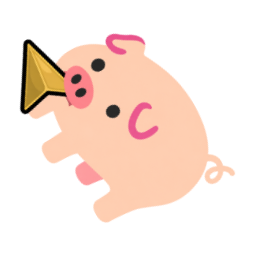
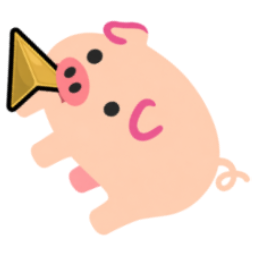
feat: 将恶意词条「反射」替换为「抗性」，每回合可免疫1次负面效果

Changed region(s): [[0.0, 0.0625, 1.0, 0.9375], [0.5, 0.375, 0.6562, 0.5625], [0.4062, 0.375, 0.4688, 0.4688]]

diff --git a/YuWanCardCode/Powers/MaliceTraits/ResistTrait.cs b/YuWanCardCode/Powers/MaliceTraits/ResistTrait.cs
@@ -1,0 +1,55 @@
+using MegaCrit.Sts2.Core.Combat;
+using MegaCrit.Sts2.Core.Entities.Creatures;
+using MegaCrit.Sts2.Core.Entities.Powers;
+using MegaCrit.Sts2.Core.Models;
+
+namespace YuWanCard.Powers.MaliceTraits;
+
+public sealed class ResistTrait : MaliceTraitPowerBase
+{
+    private bool _usedThisTurn;
+
+    private bool UsedThisTurn
+    {
+        get => _usedThisTurn;
+        set
+        {
+            AssertMutable();
+            _usedThisTurn = value;
+        }
+    }
+
+    public override Task AfterSideTurnStart(CombatSide side, IReadOnlyList<Creature> participants, ICombatState combatState)
+    {
+        if (side == Owner.Side)
+        {
+            UsedThisTurn = false;
+        }
+
+        return Task.CompletedTask;
+    }
+
+    public override bool TryModifyPowerAmountReceived(PowerModel canonicalPower, Creature target, decimal amount, Creature? applier, out decimal modifiedAmount)
+    {
+        modifiedAmount = amount;
+        if (target != Owner || UsedThisTurn)
+        {
+            return false;
+        }
+
+        if (!canonicalPower.IsVisible || canonicalPower.GetTypeForAmount(amount) != PowerType.Debuff)
+        {
+            return false;
+        }
+
+        modifiedAmount = 0m;
+        return true;
+    }
+
+    public override Task AfterModifyingPowerAmountReceived(PowerModel power)
+    {
+        Flash();
+        UsedThisTurn = true;
+        return Task.CompletedTask;
+    }
+}

diff --git a/YuWanCardCode/Malice/MaliceTraitDistributor.cs b/YuWanCardCode/Malice/MaliceTraitDistributor.cs
@@ -32,7 +32,7 @@ public static class MaliceTraitDistributor
         (typeof(BulwarkTrait), TraitRarity.Common),
 
         (typeof(PoisonTrait), TraitRarity.Uncommon),
-        (typeof(ReflectTrait), TraitRarity.Uncommon),
+        (typeof(ResistTrait), TraitRarity.Uncommon),
         (typeof(ProtectionTrait), TraitRarity.Uncommon),
         (typeof(BlindnessTrait), TraitRarity.Uncommon),
         (typeof(ShulkerTrait), TraitRarity.Uncommon),

diff --git a/YuWanCardCode/Config/YuWanColorlessCardSettings.cs b/YuWanCardCode/Config/YuWanColorlessCardSettings.cs
@@ -1,6 +1,5 @@
 using System.Text.Json;
 using System.Text.Json.Serialization;
-using MegaCrit.Sts2.Core.Models;
 
 namespace YuWanCard.Config;
 

diff --git a/docs/14-l2malice-difficulty.md b/docs/14-l2malice-difficulty.md
@@ -58,7 +58,7 @@ Malice 共 10 个等级，效果累积：
 | 词条 | 效果 |
 |------|------|
 | Poison（中毒） | 攻击命中时施加 1 层 中毒 |
-| Reflect（反射） | 受到伤害后反射 2 点伤害 |
+| Resist（抗性） | 每回合可免疫 1 次负面效果 |
 | Protection（保护） | 获得 覆甲（每层 +2） |
 | Blindness（致盲） | 攻击命中时向玩家抽牌堆塞入 晕眩 |
 | Shulker（潜影） | 己方回合开始时获得 1 层 滑溜。上限 3 层 |
@@ -245,7 +245,8 @@ public sealed class ExampleTrait : MaliceTraitPowerBase
 | `AfterApplied` | 施加时一次性效果 | Tank（+MaxHP）、Speedy（+敏捷） |
 | `AfterSideTurnStart` | 每回合持续效果 | Regen（回血）、Growth（+力量）、Gravity（减力量） |
 | `AfterAttack` | 攻击命中后 | Weakness、Drain、Blindness |
-| `AfterDamageReceived` | 受到伤害后 | Fiery（荆棘）、Reflect（反射）、CounterStrike（反击） |
+| `AfterDamageReceived` | 受到伤害后 | Fiery（荆棘）、CounterStrike（反击） |
+| `TryModifyPowerAmountReceived` | 接收能力时拦截/改写 | Resist（抗性） |
 | `AfterDamageGiven` | 造成伤害后 | Dementor（补上格挡伤害） |
 | `ModifyDamageMultiplicative` | 伤害倍率修改 | Adaptive（适应减伤） |
 | `ShouldDie` / `AfterPreventingDeath` | 死亡干预 | Undying（复活） |
